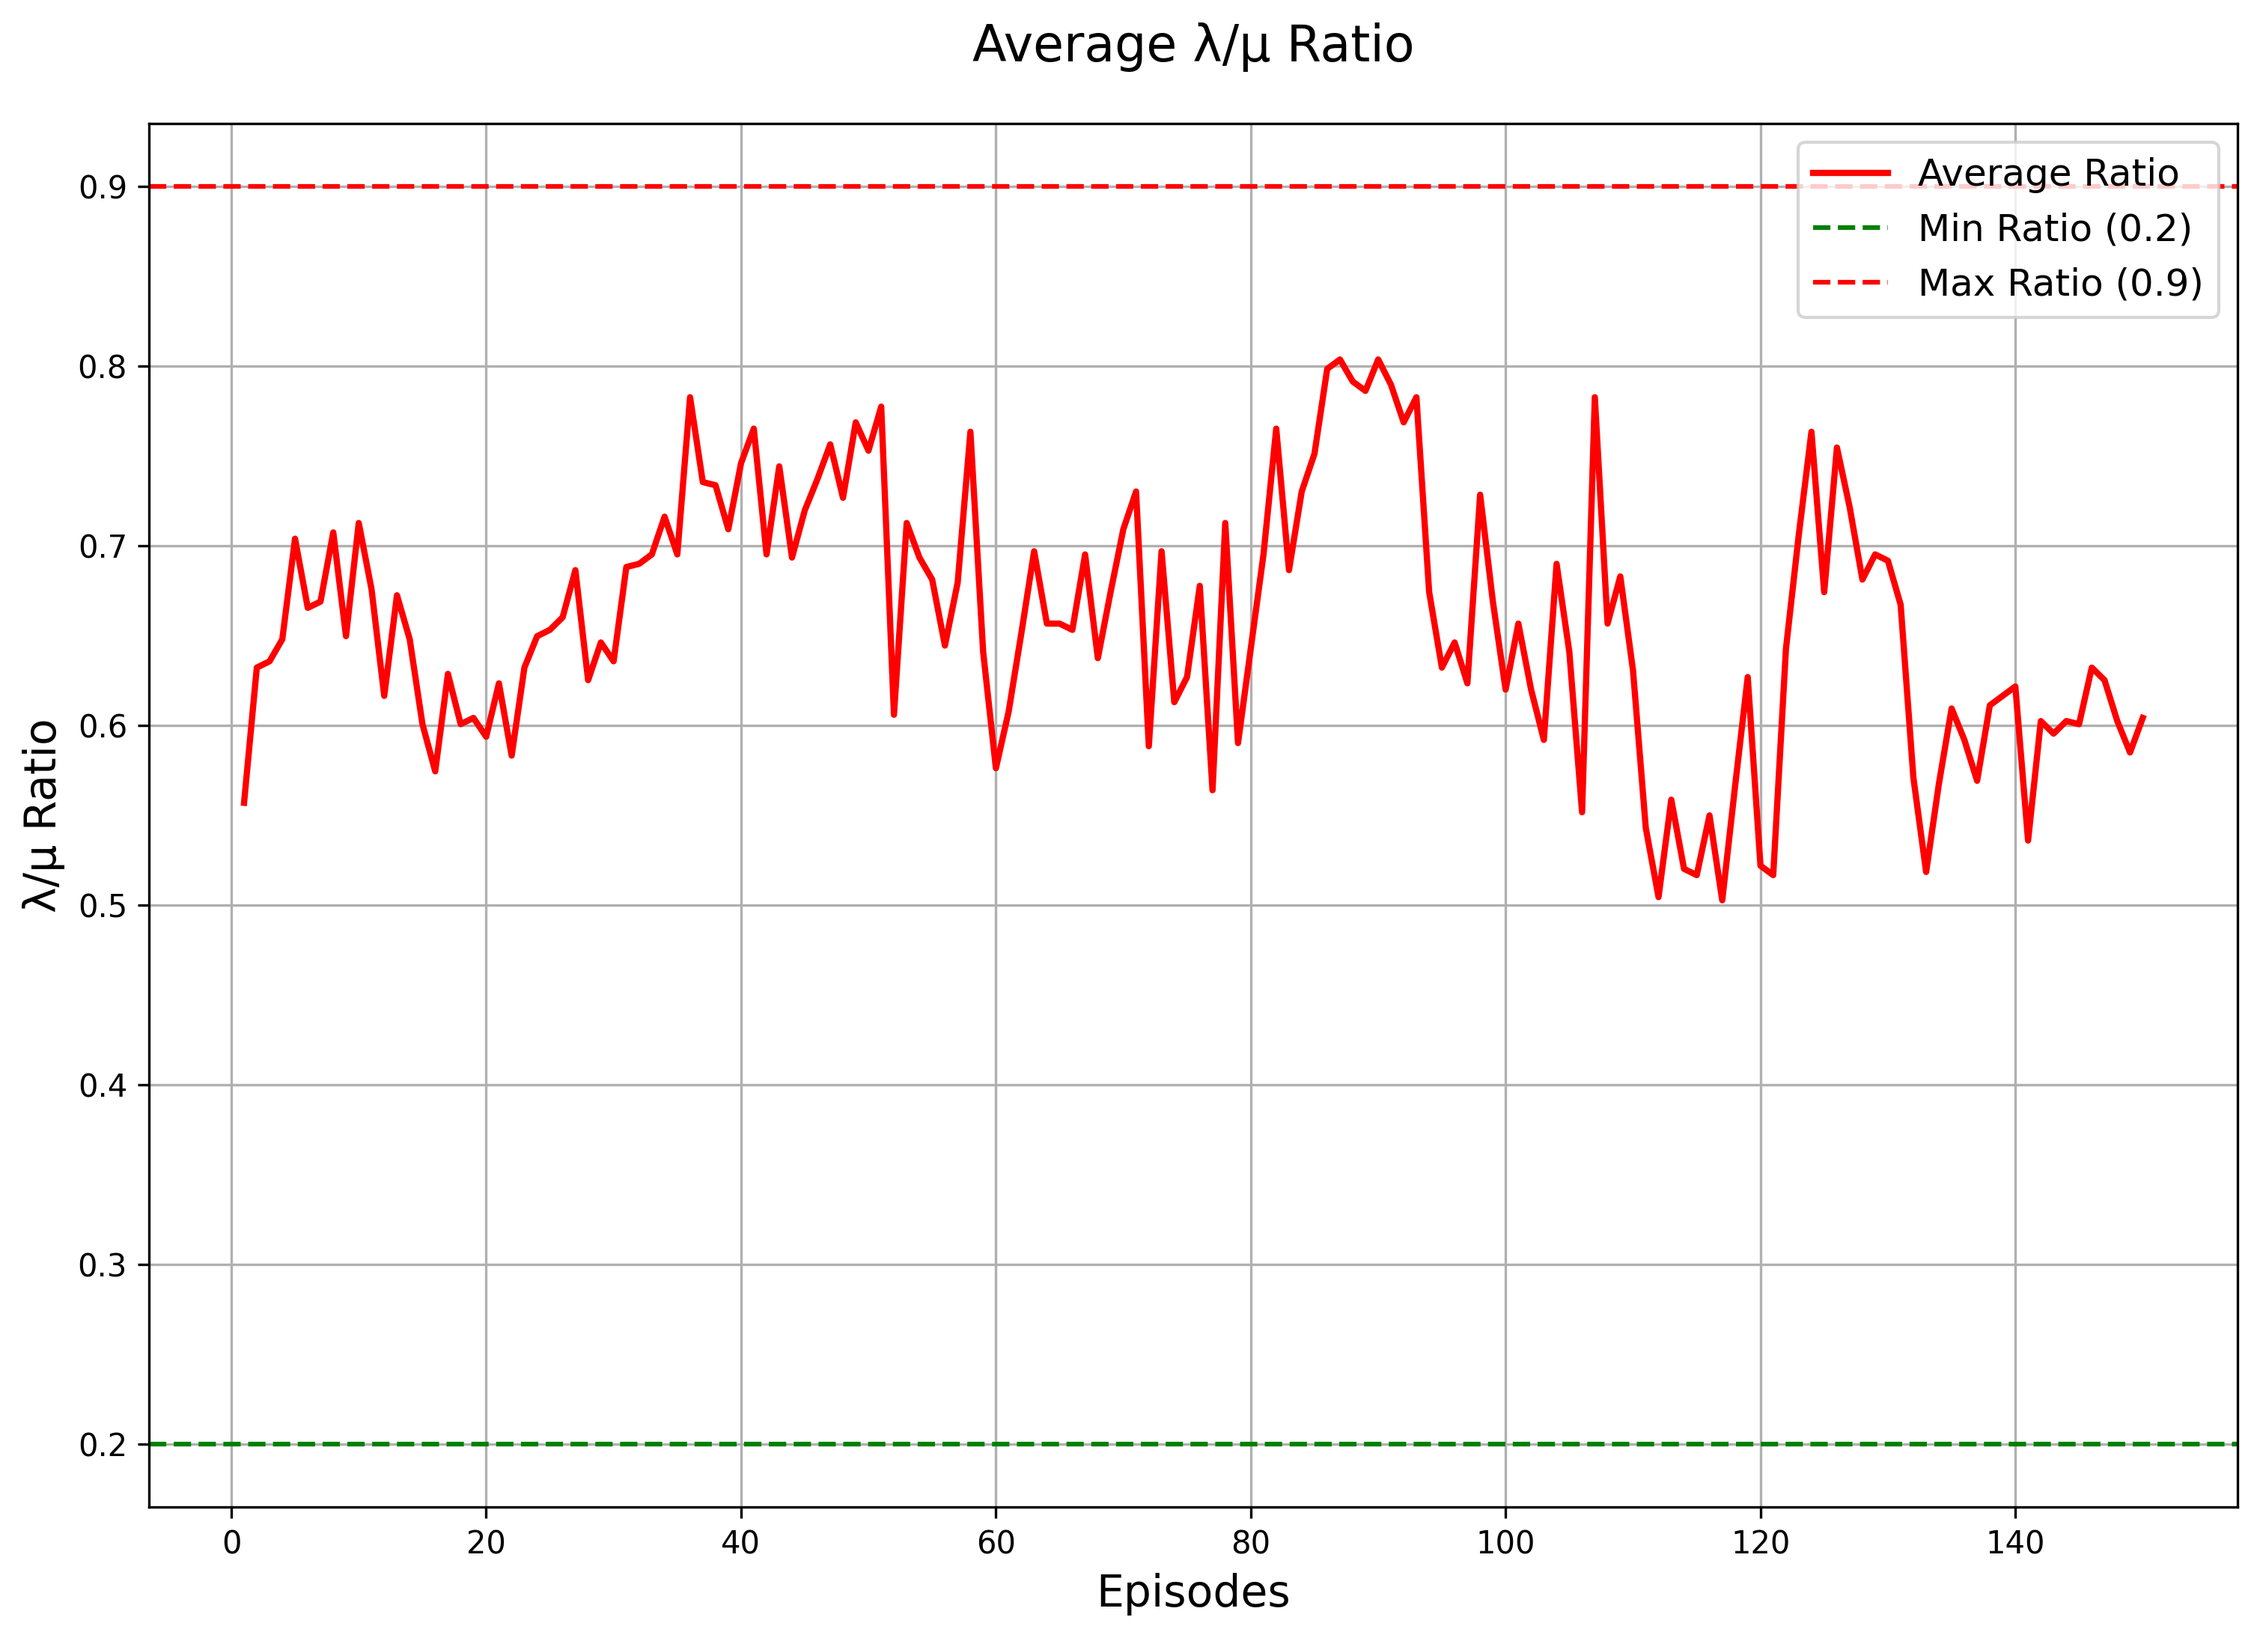
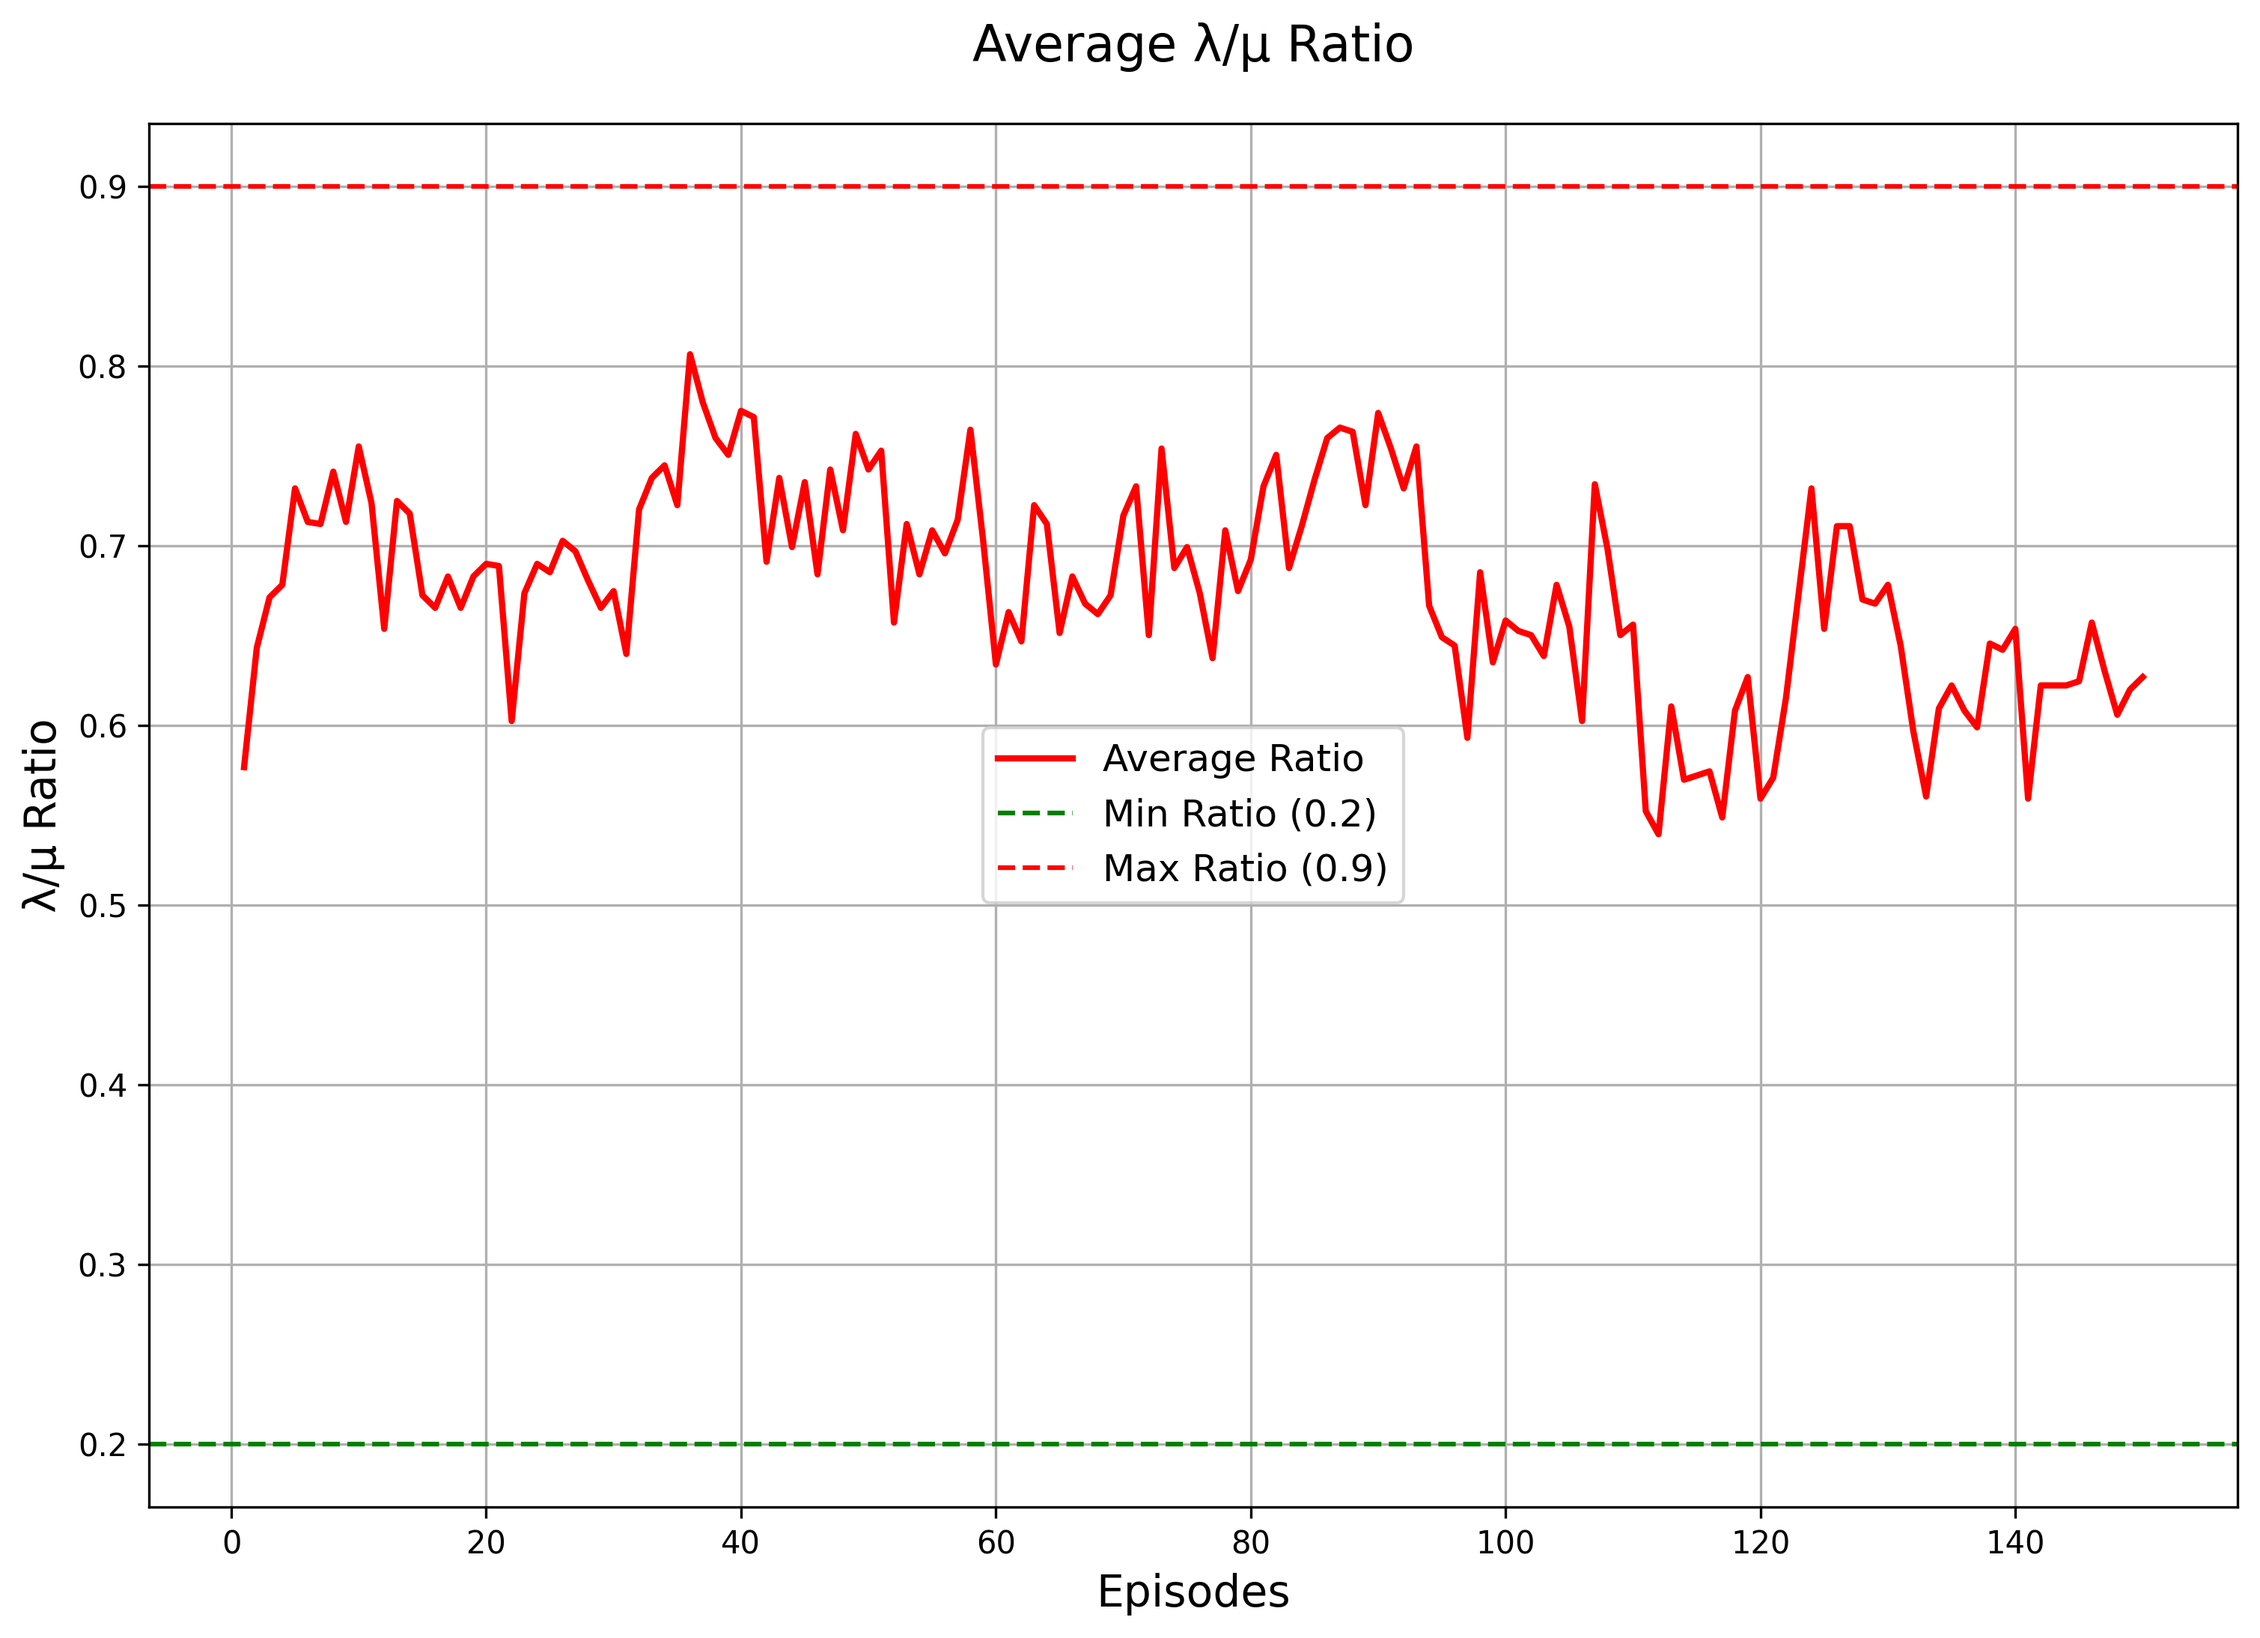
new update

diff --git a/plot_metrics.py b/plot_metrics.py
@@ -4,63 +4,71 @@ import numpy as np
 from pathlib import Path
 
 
-def plot_training_metrics(metrics_file="training_metrics.json"):
+def plot_training_metrics(path: str):
     run1 = []
     run2 = []
     run3 = []
     run4 = []
+    run5 = []
+    run6 = []
     num_episodes = 150
     actions_per_episode = 100
     episodes = range(1, num_episodes + 1)
 
-    with open("./Runs/1/training_metrics-1.json") as f:
+    with open(path + "/training_metrics-1.json") as f:
         data = json.load(f)
     rewards_data = data.get('rewards', {})
     step_rewards = rewards_data.get('episode_rewards', [])
+    step_rewards = step_rewards[:num_episodes * actions_per_episode]
     run1 = [np.mean(step_rewards[i:i + actions_per_episode])
                        for i in range(0, len(step_rewards), actions_per_episode)]
-    with open("./Runs/2/training_metrics-2.json") as f:
+    with open(path + "/training_metrics-2.json") as f:
         data = json.load(f)
     rewards_data = data.get('rewards', {})
     step_rewards = rewards_data.get('episode_rewards', [])
     run2 = [np.mean(step_rewards[i:i + actions_per_episode])
             for i in range(0, len(step_rewards), actions_per_episode)]
-    with open("./Runs/3/training_metrics.json") as f:
+    with open(path + "/training_metrics-3.json") as f:
         data = json.load(f)
     rewards_data = data.get('rewards', {})
     step_rewards = rewards_data.get('episode_rewards', [])
     run3 = [np.mean(step_rewards[i:i + actions_per_episode])
             for i in range(0, len(step_rewards), actions_per_episode)]
-    with open("./Runs/4/training_metrics.json") as f:
+    with open(path + "/training_metrics-4.json") as f:
         data = json.load(f)
     rewards_data = data.get('rewards', {})
     step_rewards = rewards_data.get('episode_rewards', [])
     run4 = [np.mean(step_rewards[i:i + actions_per_episode])
             for i in range(0, len(step_rewards), actions_per_episode)]
 
+    with open(path + "/training_metrics-5.json") as f:
+        data = json.load(f)
+    rewards_data = data.get('rewards', {})
+    step_rewards = rewards_data.get('episode_rewards', [])
+    run5 = [np.mean(step_rewards[i:i + actions_per_episode])
+            for i in range(0, len(step_rewards), actions_per_episode)]
+
+    with open(path + "/training_metrics-6.json") as f:
+        data = json.load(f)
+    rewards_data = data.get('rewards', {})
+    step_rewards = rewards_data.get('episode_rewards', [])
+    run6 = [np.mean(step_rewards[i:i + actions_per_episode])
+            for i in range(0, len(step_rewards), actions_per_episode)]
+
     # Plot 1
     plt.figure(figsize=(12, 8))
-    plt.plot(episodes, run1, 'b-', label='Average Reward with action space = 80', linewidth=1)
-    plt.plot(episodes, run2, 'r-', label='Average Reward with action space = 50', linewidth=1)
-    plt.plot(episodes, run3, 'g-', label='Average Reward with action space = 30', linewidth=1)
-    plt.plot(episodes, run4, 'y-', label='Average Reward with action space = 24', linewidth=1)
+    plt.plot(episodes, run1, 'b-', label='Average Reward - Run 1', linewidth=1)
+    plt.plot(episodes, run2, 'r-', label='Average Reward - Run 2', linewidth=1)
+    plt.plot(episodes, run3, 'g-', label='Average Reward - Run 3', linewidth=1)
+    plt.plot(episodes, run4, 'y-', label='Average Reward - Run 4', linewidth=1)
+    plt.plot(episodes, run5, 'c-', label='Average Reward - Run 5', linewidth=1)
+    plt.plot(episodes, run6, 'k-', label='Average Reward - Run 6', linewidth=1)
     plt.title('Average Rewards over Episode', fontsize=16, pad=20)
     plt.xlabel('Episodes', fontsize=14)
     plt.ylabel('Average Reward', fontsize=14)
     plt.grid(True)
     plt.legend(fontsize=12)
-    plt.savefig('plots/rewards-vs-episode-1.png', dpi=300, bbox_inches='tight')
-    plt.close()
-
-    # Plot 2
-    plt.plot(episodes, run3, 'g-', label='Average Reward with action space = 30', linewidth=1)
-    plt.plot(episodes, run4, 'y-', label='Average Reward with action space = 24', linewidth=1)
-    plt.title('Average Rewards over Episode', fontsize=16, pad=20)
-    plt.xlabel('Episodes', fontsize=14)
-    plt.ylabel('Average Reward', fontsize=14)
-    plt.grid(True)
-    plt.legend(fontsize=12)
-    plt.savefig('plots/rewards-vs-episode-2.png', dpi=300, bbox_inches='tight')
+    plt.savefig(path+'/training_metrics.png', dpi=300, bbox_inches='tight')
     plt.close()
 
 def average_metrics(path: str):
@@ -68,7 +76,7 @@ def average_metrics(path: str):
     num_episodes = 150
     actions_per_episode = 100
     episodes = range(1, num_episodes + 1)
-    for i in range(1,5):
+    for i in range(1,7):
         filename = "training_metrics-" + str(i) + ".json"
         with open(path + filename) as f:
             data = json.load(f)
@@ -87,13 +95,14 @@ def average_metrics(path: str):
     plt.plot(episodes, res, 'b-', label='Average Reward vs Episodes', linewidth=2)
     plt.plot(episodes, moving_avg_rewards, 'r-', label='Moving Average Reward vs Episodes (Window Size = 10)', linewidth=2)
     plt.title('Average Rewards over Episodes', fontsize=16, pad=20)
-    plt.ylim(-0.8, 0)
+    # plt.ylim(-0.8, 0)
     plt.xlabel('Episodes', fontsize=14)
     plt.ylabel('Average Reward', fontsize=14)
     plt.grid(True)
     plt.legend(fontsize=12)
-    plt.savefig(path+"training_metrics.png", dpi=300, bbox_inches='tight')
+    plt.savefig(path+"/rewards-vs-episode-average-metrics.png", dpi=300, bbox_inches='tight')
     plt.close()
 
 if __name__ == "__main__":
+    plot_training_metrics("./Runs/8/")
     average_metrics("./Runs/8/")

diff --git a/metrics.py b/metrics.py
@@ -18,7 +18,7 @@ def plot_training_metrics(metrics_file="training_metrics.json"):
     all_runs_aoi = []
 
     # Load and process data from all runs
-    for i in range(1, 5):
+    for i in range(1, 7):
         try:
             with open(metrics_file + f"/training_metrics-{i}.json", 'r') as f:
                 metrics = json.load(f)
